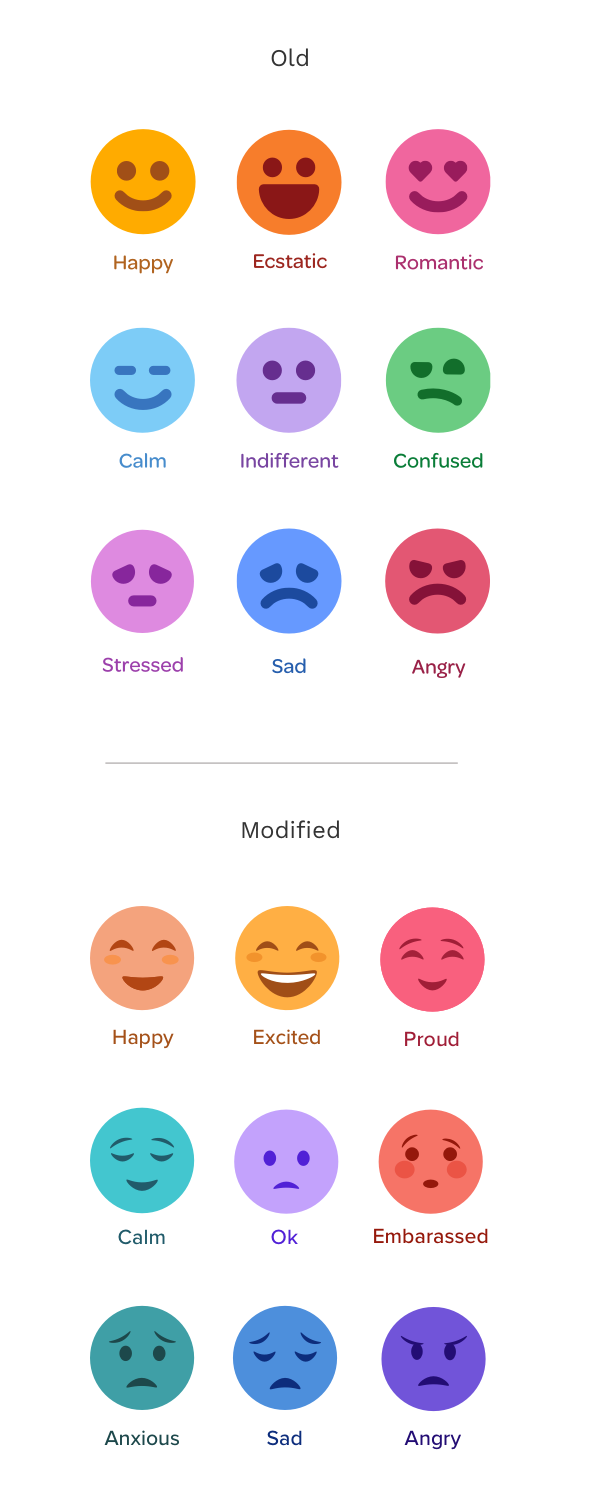
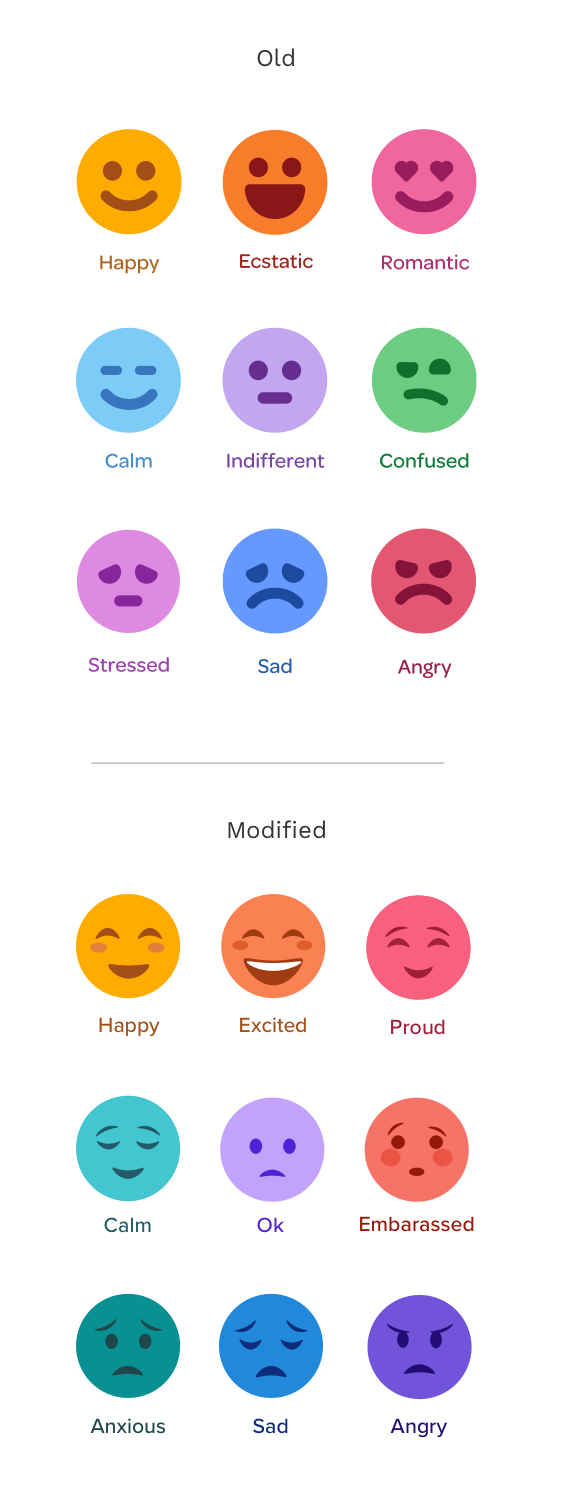
adjusted assets

diff --git a/youhue.html b/youhue.html
@@ -349,16 +349,21 @@
         </div>
            <div class="italic-subtitle">Revised color palette</div>
              <div class="image-container">
-               <img src="./images/yh-colors.png" width="100%">
+               <img src="./images/yh-colors-01.png" width="100%">
             </div>
               <div class="image-mobile">
-                   <img src="./images/yh-colors-mobile1.png" width="100%">
-                      <img src="./images/yh-colors-mobile2.png" width="100%">
+                   <img src="./images/yh-colors-01-mobile.png" width="100%">
               </div>
             <br>
               <p>I modified the color pallete to reflect the newly identified brand characteristics: energy, trustworthy, playful, smart and caring.</p>
-              <p>The most apparent change was adjusting the YouHue brand color from a dark violet to a bold, energizing blue violet. The added blue tones to the purple communicates energy, trustworthiness, and intelligence.</p>
-              <p>I also modified the mood colors to complement the new YouHue purple. These colors are shown in the logo graphic and represent the mood emojis in the app.</p>
+              <p>The most apparent change was adjusting the YouHue brand color from a dark violet to a bold, energizing blue-violet. The added blue tones to the purple communicates energy, trustworthiness, and intelligence.</p>
+              <p>I also (ever so slightly!) modified the mood colors to complement the new YouHue brand purple. These colors are shown in the logo graphic and represent the mood emojis in the app.</p>
+              <div class="image-container">
+                <img src="./images/yh-colors-02.png" width="100%">
+             </div>
+               <div class="image-mobile">
+                    <img src="./images/yh-colors-02-mobile.png" width="100%">
+               </div>
    </section>
    <section class="content-container">
       <div class="italic-subtitle">Logo modification</div>
